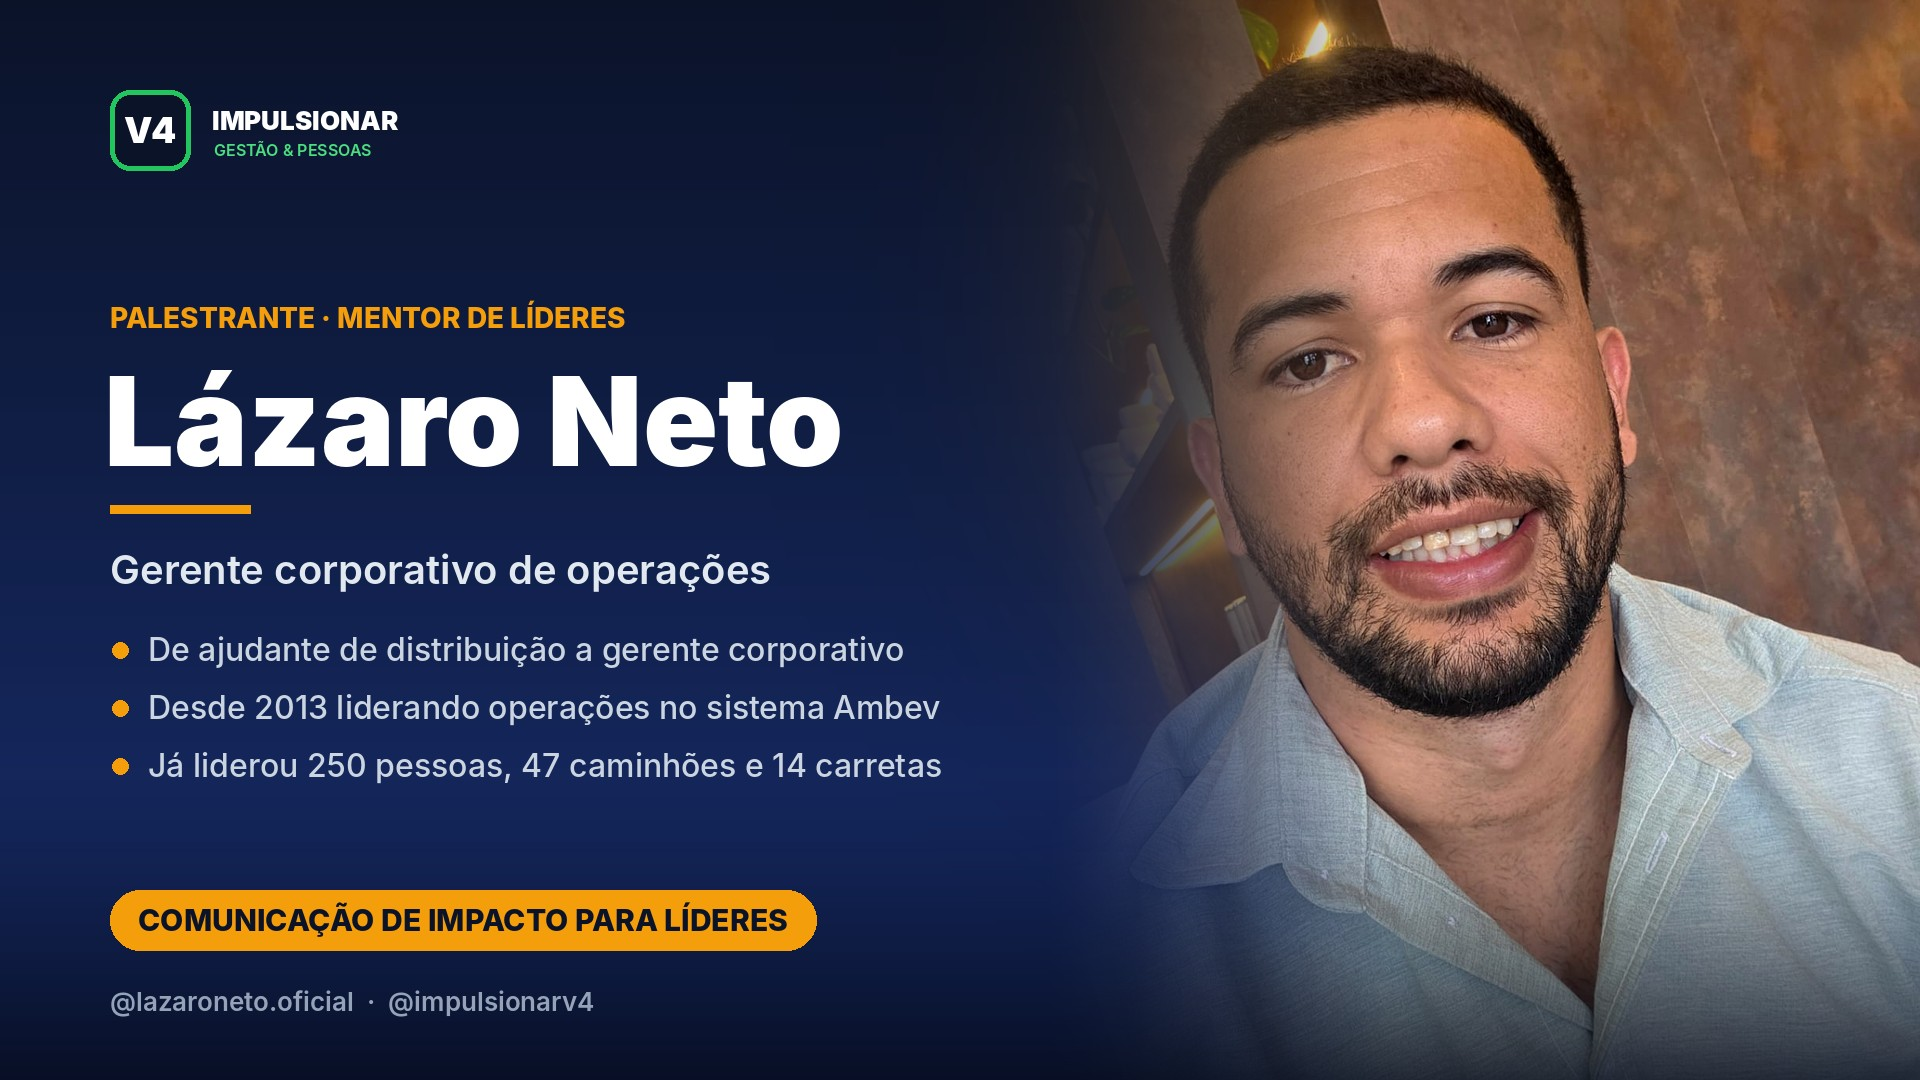
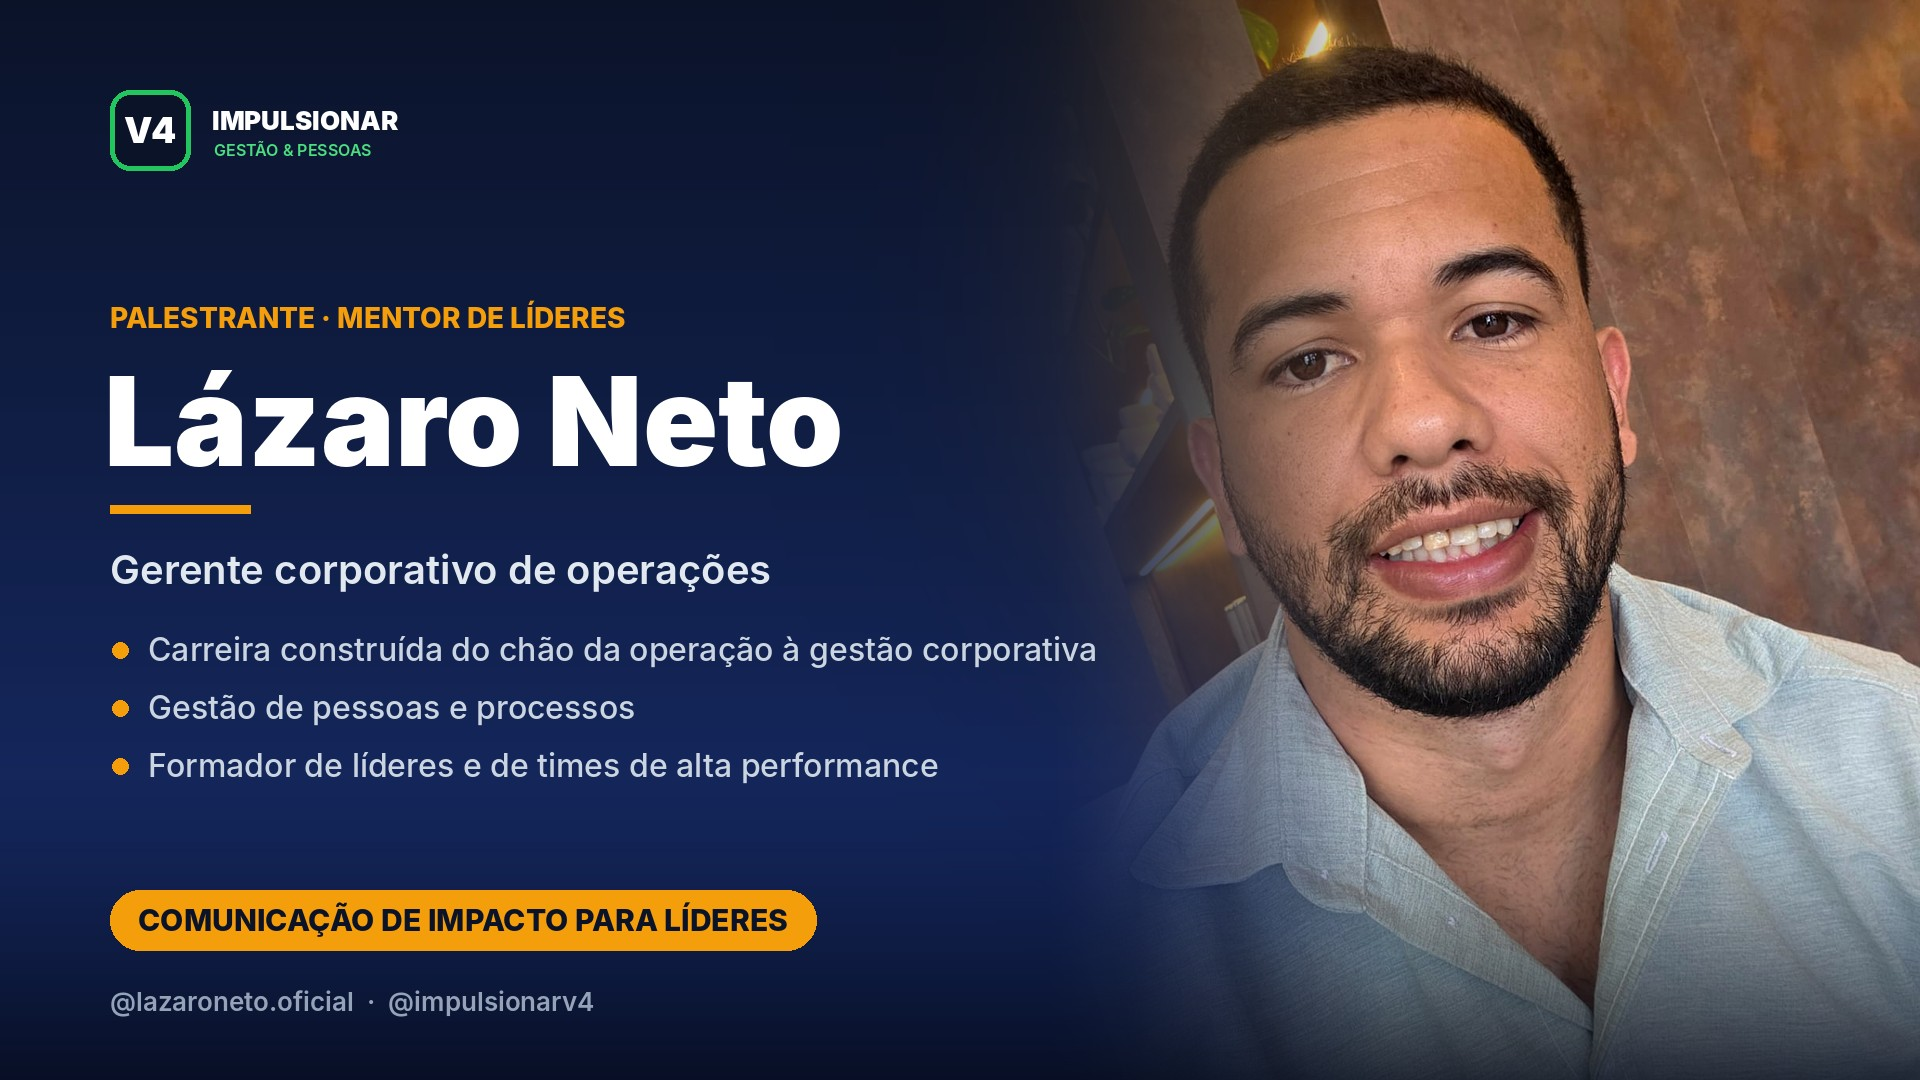
ok

Changed region(s): [[0.0625, 0.5806, 0.5625, 0.6111], [0.0625, 0.7028, 0.5, 0.7333], [0.0625, 0.6417, 0.5, 0.6722]]

diff --git a/server.js b/server.js
@@ -9688,7 +9688,7 @@ function deckEncontroProgramaMt(p, n, presenca, base) {
     const mod = (nome, slides) => ({ titulo: `${nome} · ${faixa(nome)}`, tipo: 'slides', slides });
     const abertura = [
         // abertura de palestrante: foto, nome e trajetória (a legenda embaixo mostra o encontro do dia)
-        sl('', '', 'DIGA: "Boa noite! Eu sou o Lázaro…" Apresente-se em 30 segundos com a sua trajetória e diga o que eles vão conseguir fazer no fim desta hora.', 'imagem', { imagem: String(base || '').replace(/\/$/, '') + '/mentoria-palestrante.jpg?v=2' }),
+        sl('', '', 'DIGA: "Boa noite! Eu sou o Lázaro…" Apresente-se em 30 segundos com a sua trajetória e diga o que eles vão conseguir fazer no fim desta hora.', 'imagem', { imagem: String(base || '').replace(/\/$/, '') + '/mentoria-palestrante.jpg?v=4' }),
         sl('No fim desta hora, você vai', bl(e.objetivo || [e.tema]), 'DIGA: "No fim desta hora, cada um de vocês vai…" e leia os itens.\nFAÇA: peça para alguém repetir o 1º item com as próprias palavras.', 'destaque'),
         sl('Agenda de hoje · 60 minutos', B.map(b => `• ${mm(b.ini)}–${mm(b.fim)}  ${b.nome} (${b.min} min)`).join('\n'), 'DIGA: "Esse é o nosso relógio de hoje. Começamos e terminamos no horário."\nSe atrasar, corte do Conceito, nunca da Prática.')
     ];
